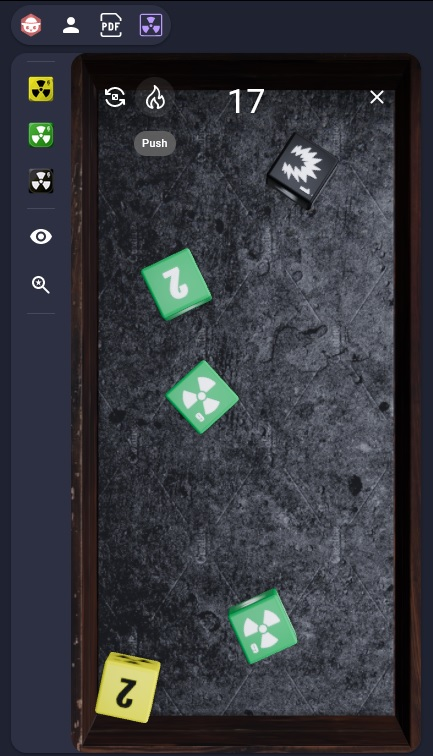
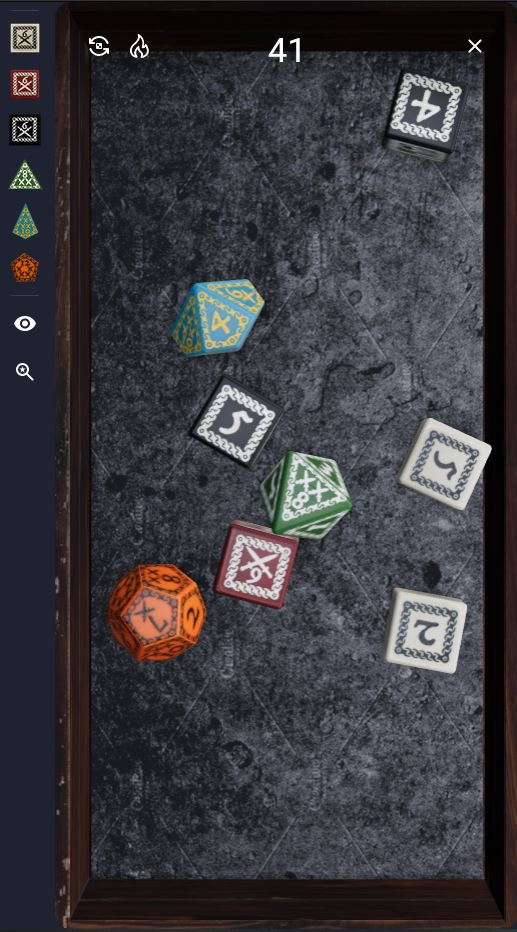
Upd

diff --git a/docs/store.md b/docs/store.md
@@ -1,52 +1,76 @@
 ---
-title: Dice
-description: Beautiful 3D dice extension for d20 based systems
+title: "Forbidden Lands Dice"
+description: Beautiful 3D dice extension for Forbidden Lands
 author: Owlbear Rodeo
-image: https://raw.githubusercontent.com/owlbear-rodeo/dice/main/docs/header.jpg
-icon: https://dice.owlbear.rodeo/logo.png
+image: https://raw.githubusercontent.com/Zonrotan/owlbear_fbl_dice/main/docs/header.jpg
+icon: https://github.com/Zonrotan/owlbear_fbl_dice/blob/main/public/logo.png?raw=true
 tags:
-  - built-by-owlbear
   - dice
-manifest: https://dice.owlbear.rodeo/manifest.json
-learn-more: https://owlbear.app
+manifest: https://github.com/Zonrotan/owlbear_fbl_dice/blob/main/public/manifest.json
+learn-more: https://github.com/Zonrotan/owlbear_fbl_dice
 ---
 
-# Dice
+# Forbidden Lands Dice for Owlbear Rodeo
 
-Beautiful 3D dice extension for d20 based systems
+3D dice extension for playing Forbidden Lands in OwlBear Rodeo, based on the [OwlBear Rodeo Dice Extension](https://github.com/owlbear-rodeo/dice).
 
-You can add dice to your dice tray by clicking one of the dice icons in the left bar.
 
-When you want to roll the dice simply click the Roll button.
 
-![roll interface](https://raw.githubusercontent.com/owlbear-rodeo/dice/main/docs/rolls.jpg)
+Thanks to the OwlBear Rodeo dev team for letting amateurs like me fiddle with their Dice roller
 
-Once rolled the extension will use a physics simulation to determine the results of the roll.
+MASSIVE thanks to [jjsoini](https://github.com/jjsoini/) for help with the Pushing function. Check him out!
 
-**Real-Time Syncing**
+![Example](/docs/header.jpg)
 
-The dice roller will sync this simulation over the network so all connected players can see the roll in real-time.
+## Installing
 
-By default other players dice trays will show up as a small preview in the bottom right. You can expand this preview by clicking it.
+The extension can be installed by clicking the "ADD EXTENSION" button on your Owlbear Rodeo profile and copy-pasting this link into the URL field.
 
-![player roll](https://raw.githubusercontent.com/owlbear-rodeo/dice/main/docs/player.jpg)
+```sh
+https://fbl-dice.onrender.com/
+```
 
-**Private Rolls**
+## How it Works
+This project uses [React](https://reactjs.org/) for UI, [Three.js](https://threejs.org/) for rendering and [Rapier](https://rapier.rs/) for physics.
 
-To make a roll privately you can select the eye icon in the sidebar when making a roll.
+The physics simulation is used to both generate the animation for the roll as well as the final roll values.
 
-**Bonus and Advantage**
+Read more in their [original repo](https://github.com/owlbear-rodeo/dice)!
 
-To add a bonus or advantage/disadvantage to your next roll you can click the +/- icon in the sidebar.
+## Building
 
-![bonus](https://raw.githubusercontent.com/owlbear-rodeo/dice/main/docs/bonus.jpg)
+This project uses [Yarn](https://yarnpkg.com/) as a package manager.
 
-**Recent Rolls**
+To install all the dependencies run:
 
-To re-roll one of your recent rolls you can click the search glass icon in the sidebar.
+`yarn`
 
-![recent rolls](https://raw.githubusercontent.com/owlbear-rodeo/dice/main/docs/recent.jpg)
+To run in a development mode run:
 
-**Support**
+`yarn dev`
 
-If you need support for this extension you can email <support@owlbear.rodeo>
+To make a production build run:
+
+`yarn build`
+
+## Project Structure
+
+All source files can be found in the `src` folder.
+
+If you'd like to create a new dice set with the existing dice styles edit the `diceSets.ts` file in the `sets` folder.
+
+If you'd like to add a new dice style the 3D models for the dice are split across four folders: `materials`, `meshes`, `colliders` and `previews`.
+
+The `materials` folder contains the PBR materials for each dice style.
+
+The `meshes` folder contains the 3D geometry used for the dice.
+
+The `colliders` folder contains the simplified collider geometry for the dice.
+
+The `previews` folder contains 2D image previews for each dice.
+
+All the code specific for the Owlbear Rodeo extension is in the `plugin` folder.
+
+## License
+
+GNU GPLv3

diff --git a/README.md b/README.md
@@ -1,6 +1,6 @@
-# Mutant:Year Zero Dice for Owlbear Rodeo
+# Forbidden Lands Dice for Owlbear Rodeo
 
-3D dice extension for playing Mutant: Year Zero and its' expansions in OwlBear Rodeo, based on the [OwlBear Rodeo Dice Extension](https://github.com/owlbear-rodeo/dice).
+3D dice extension for playing Forbidden Lands in OwlBear Rodeo, based on the [OwlBear Rodeo Dice Extension](https://github.com/owlbear-rodeo/dice).
 
 
 
@@ -15,7 +15,7 @@ MASSIVE thanks to [jjsoini](https://github.com/jjsoini/) for help with the Pushi
 The extension can be installed by clicking the "ADD EXTENSION" button on your Owlbear Rodeo profile and copy-pasting this link into the URL field.
 
 ```sh
-https://myz-dice.onrender.com/
+https://fbl-dice.onrender.com/
 ```
 
 ## How it Works
